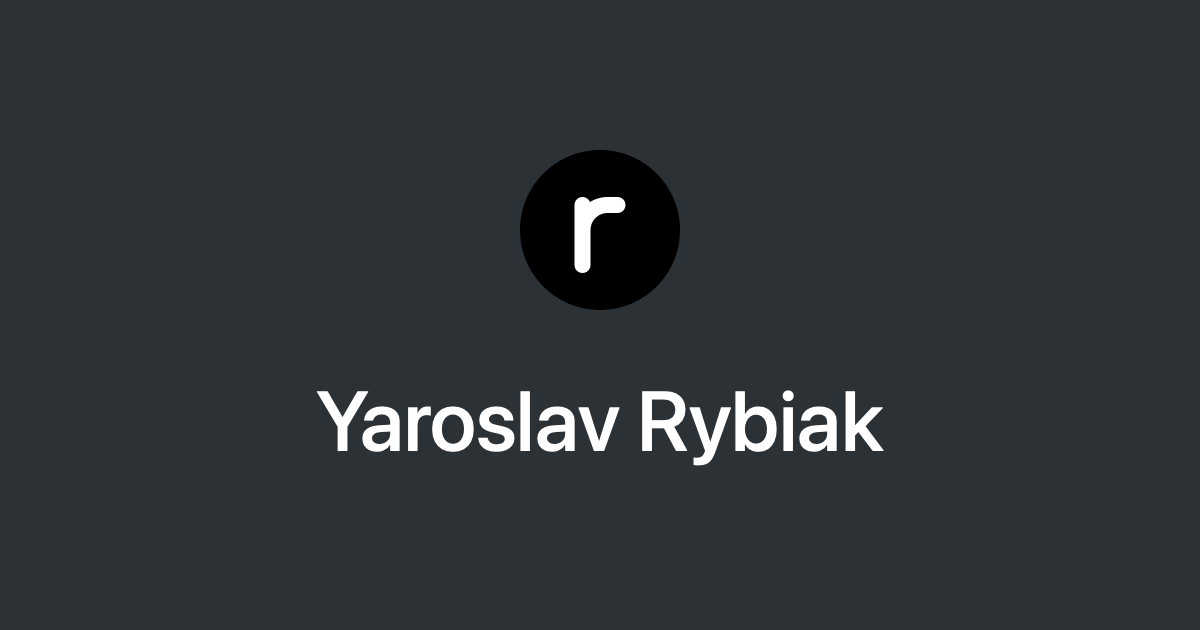
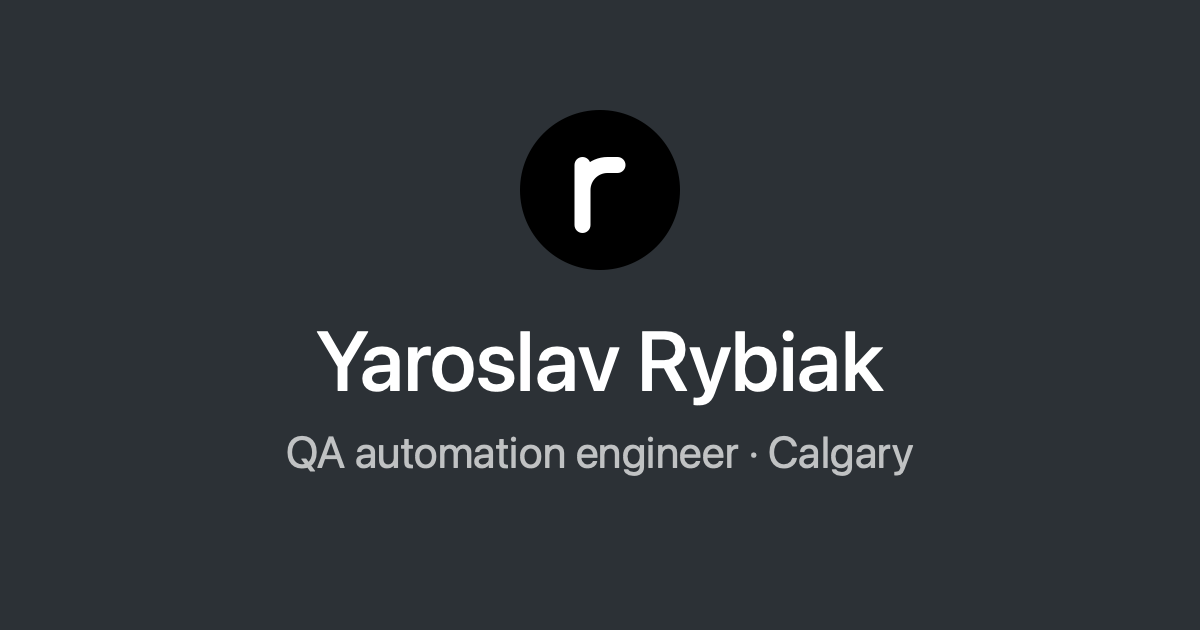
Add tagline, role-based description and Cyrillic alternate names
- Show "QA automation engineer · Calgary" under the name
- Use "Yaroslav Rybiak, QA automation engineer in Calgary." as the meta and
  Open Graph description
- Add the tagline to og-image.png and its alt text
- Add jobTitle, Calgary address and the Ukrainian/Russian spellings of the
  name (alternateName) to the Person JSON-LD; nothing Cyrillic is visible

Changed region(s): [[0.2158, 0.5127, 0.7708, 0.754], [0.4317, 0.1508, 0.5858, 0.5127]]

diff --git a/index.html b/index.html
@@ -4,7 +4,7 @@
     <meta charset="utf-8">
     <meta name="viewport" content="width=device-width, initial-scale=1">
     <title>Yaroslav Rybiak</title>
-    <meta name="description" content="Yaroslav Rybiak: find me on LinkedIn, Instagram, Facebook and Telegram.">
+    <meta name="description" content="Yaroslav Rybiak, QA automation engineer in Calgary.">
     <meta name="theme-color" content="#212529">
     <link rel="canonical" href="https://rybiak.com/">
 
@@ -14,12 +14,12 @@
 
     <meta property="og:type" content="profile">
     <meta property="og:title" content="Yaroslav Rybiak">
-    <meta property="og:description" content="Find me on LinkedIn, Instagram, Facebook and Telegram.">
+    <meta property="og:description" content="Yaroslav Rybiak, QA automation engineer in Calgary.">
     <meta property="og:url" content="https://rybiak.com/">
     <meta property="og:image" content="https://rybiak.com/og-image.png">
     <meta property="og:image:width" content="1200">
     <meta property="og:image:height" content="630">
-    <meta property="og:image:alt" content="A white letter r in a black circle above the name Yaroslav Rybiak">
+    <meta property="og:image:alt" content="A white letter r in a black circle above the name Yaroslav Rybiak and the line QA automation engineer · Calgary">
     <meta property="profile:first_name" content="Yaroslav">
     <meta property="profile:last_name" content="Rybiak">
     <meta name="twitter:card" content="summary_large_image">
@@ -29,6 +29,14 @@
         "@context": "https://schema.org",
         "@type": "Person",
         "name": "Yaroslav Rybiak",
+        "alternateName": ["Ярослав Рибяк", "Ярослав Рыбяк"],
+        "jobTitle": "QA automation engineer",
+        "address": {
+          "@type": "PostalAddress",
+          "addressLocality": "Calgary",
+          "addressRegion": "AB",
+          "addressCountry": "CA"
+        },
         "url": "https://rybiak.com/",
         "image": "https://rybiak.com/og-image.png",
         "sameAs": [
@@ -45,6 +53,7 @@
   <body>
     <main>
       <h1>Yaroslav Rybiak</h1>
+      <p class="tagline">QA automation engineer · Calgary</p>
       <a class="pages-link" target="_blank" rel="me noopener noreferrer" href="https://www.linkedin.com/in/yrybiak/" aria-label="Visit my LinkedIn profile in a new tab">
         <svg class="bi bi-linkedin" aria-hidden="true" focusable="false" fill="currentColor" height="48" viewBox="0 0 16 16" width="48" xmlns="http://www.w3.org/2000/svg">
           <path d="M0 1.146C0 .513.526 0 1.175 0h13.65C15.474 0 16 .513 16 1.146v13.708c0 .633-.526 1.146-1.175 1.146H1.175C.526 16 0 15.487 0 14.854V1.146zm4.943 12.248V6.169H2.542v7.225h2.401zm-1.2-8.212c.837 0 1.358-.554 1.358-1.248-.015-.709-.52-1.248-1.342-1.248-.822 0-1.359.54-1.359 1.248 0 .694.521 1.248 1.327 1.248h.016zm4.908 8.212V9.359c0-.216.016-.432.08-.586.173-.431.568-.878 1.232-.878.869 0 1.216.662 1.216 1.634v3.865h2.401V9.25c0-2.22-1.184-3.252-2.764-3.252-1.274 0-1.845.7-2.165 1.193v.025h-.016a5.54 5.54 0 0 1 .016-.025V6.169h-2.4c.03.678 0 7.225 0 7.225h2.4z"/>

diff --git a/cover.css b/cover.css
@@ -1,6 +1,7 @@
 :root {
   --bg: #212529;
   --fg: #fff;
+  --fg-muted: rgba(255, 255, 255, .7);
   --link: #0d6efd;
   --link-hover: #6ea8fe;
 }
@@ -51,6 +52,12 @@ h1 {
 
 p {
   margin: 0 0 1rem;
+}
+
+.tagline {
+  margin-bottom: .75rem;
+  font-size: 1.125rem;
+  color: var(--fg-muted);
 }
 
 a {
